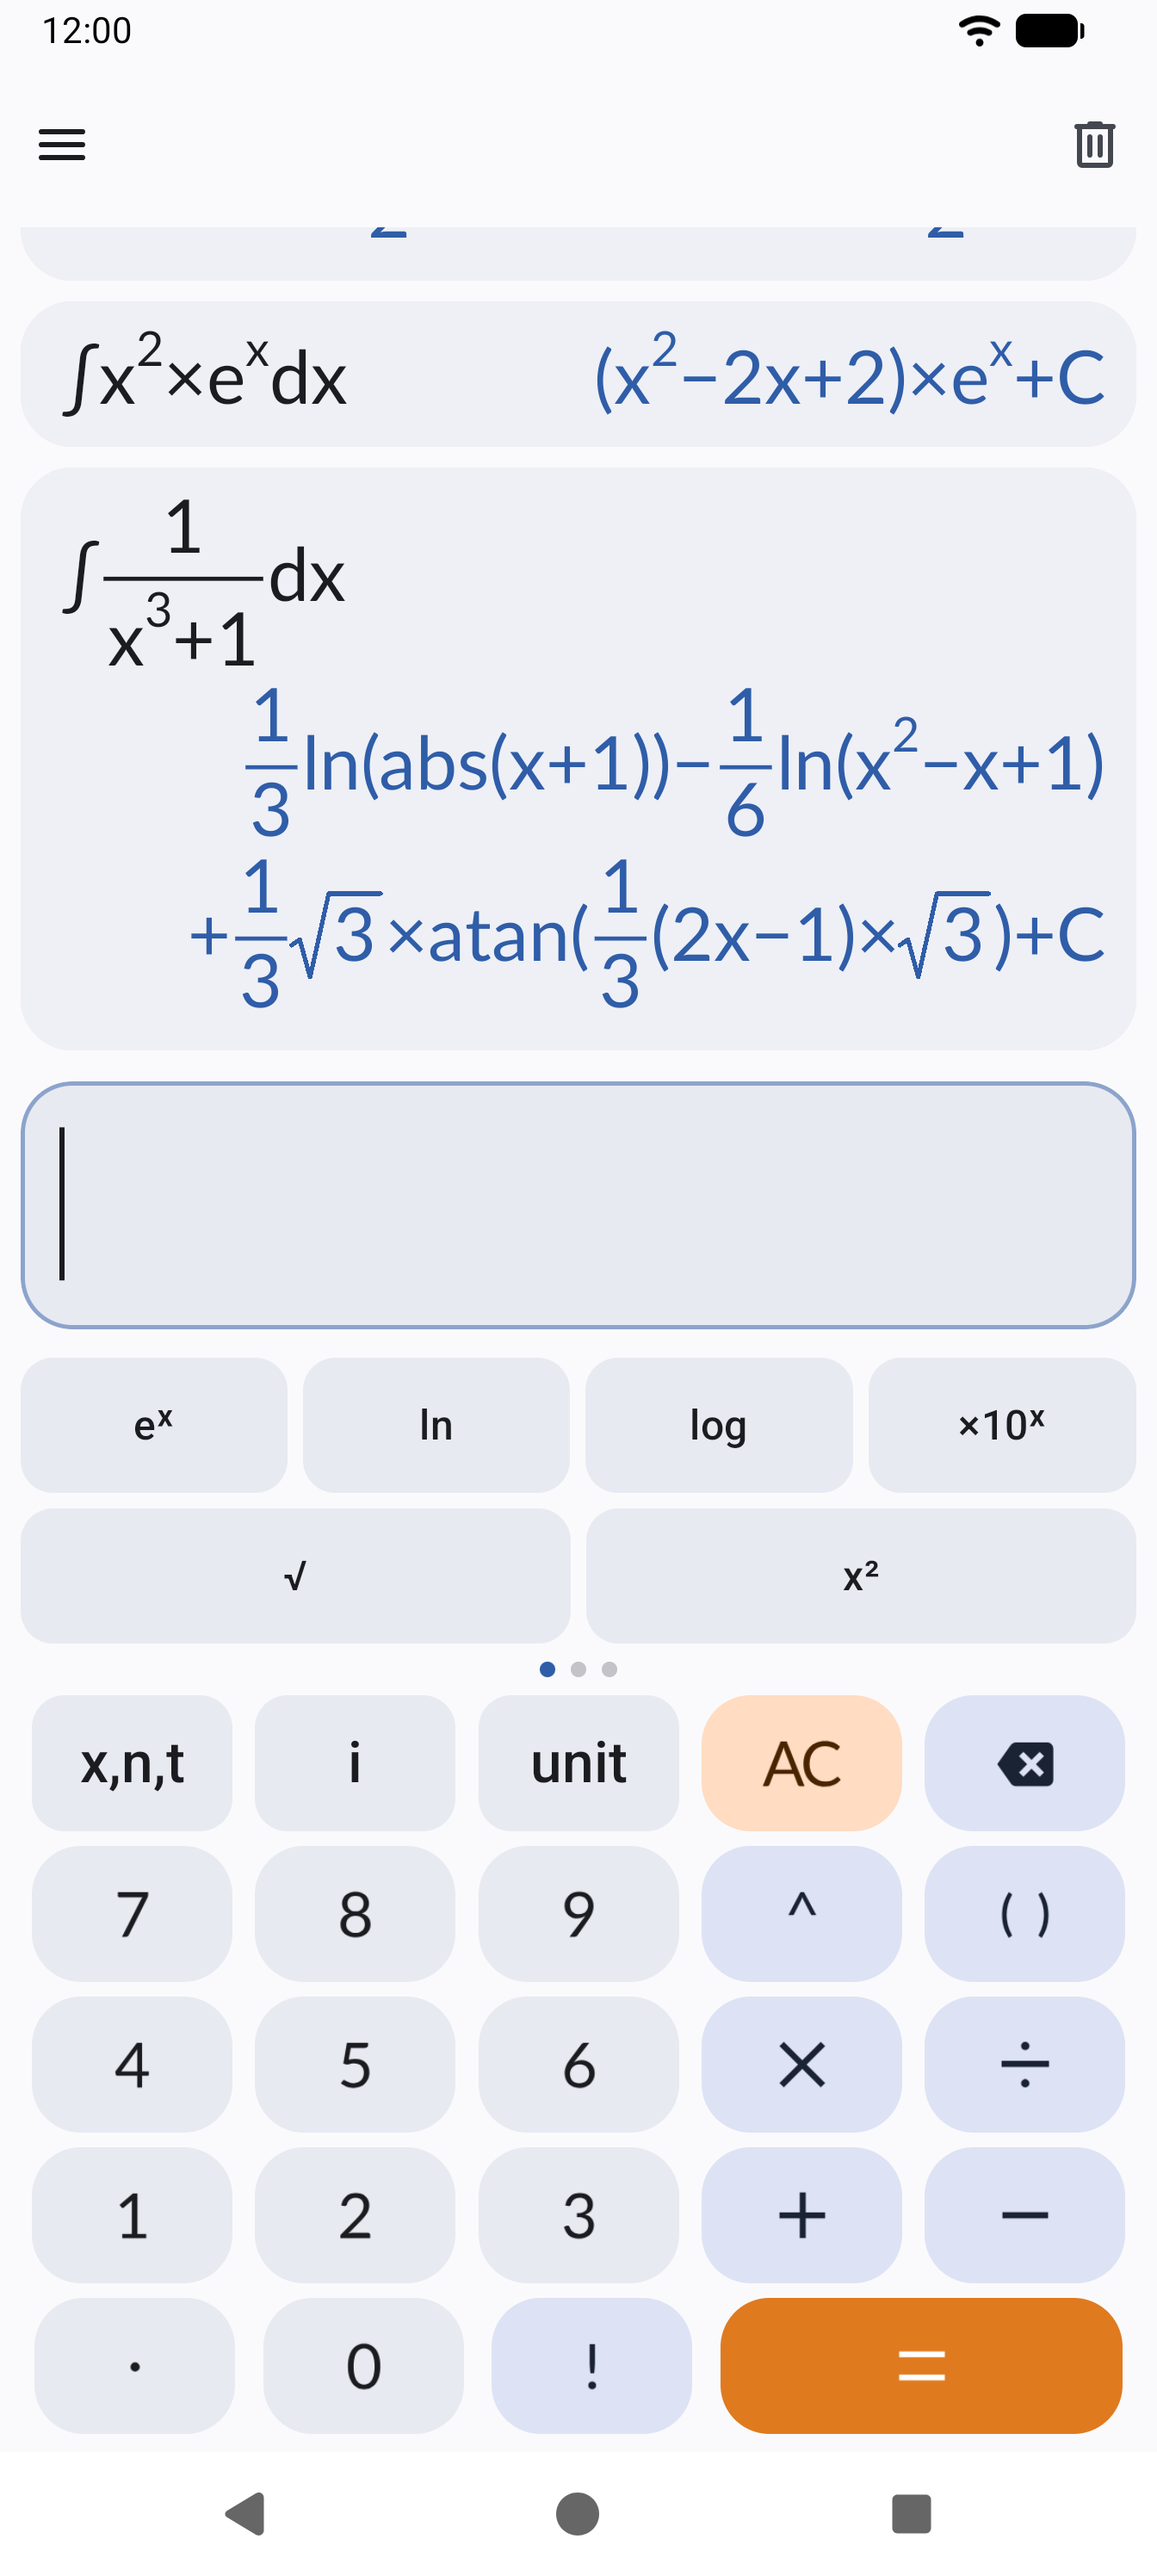
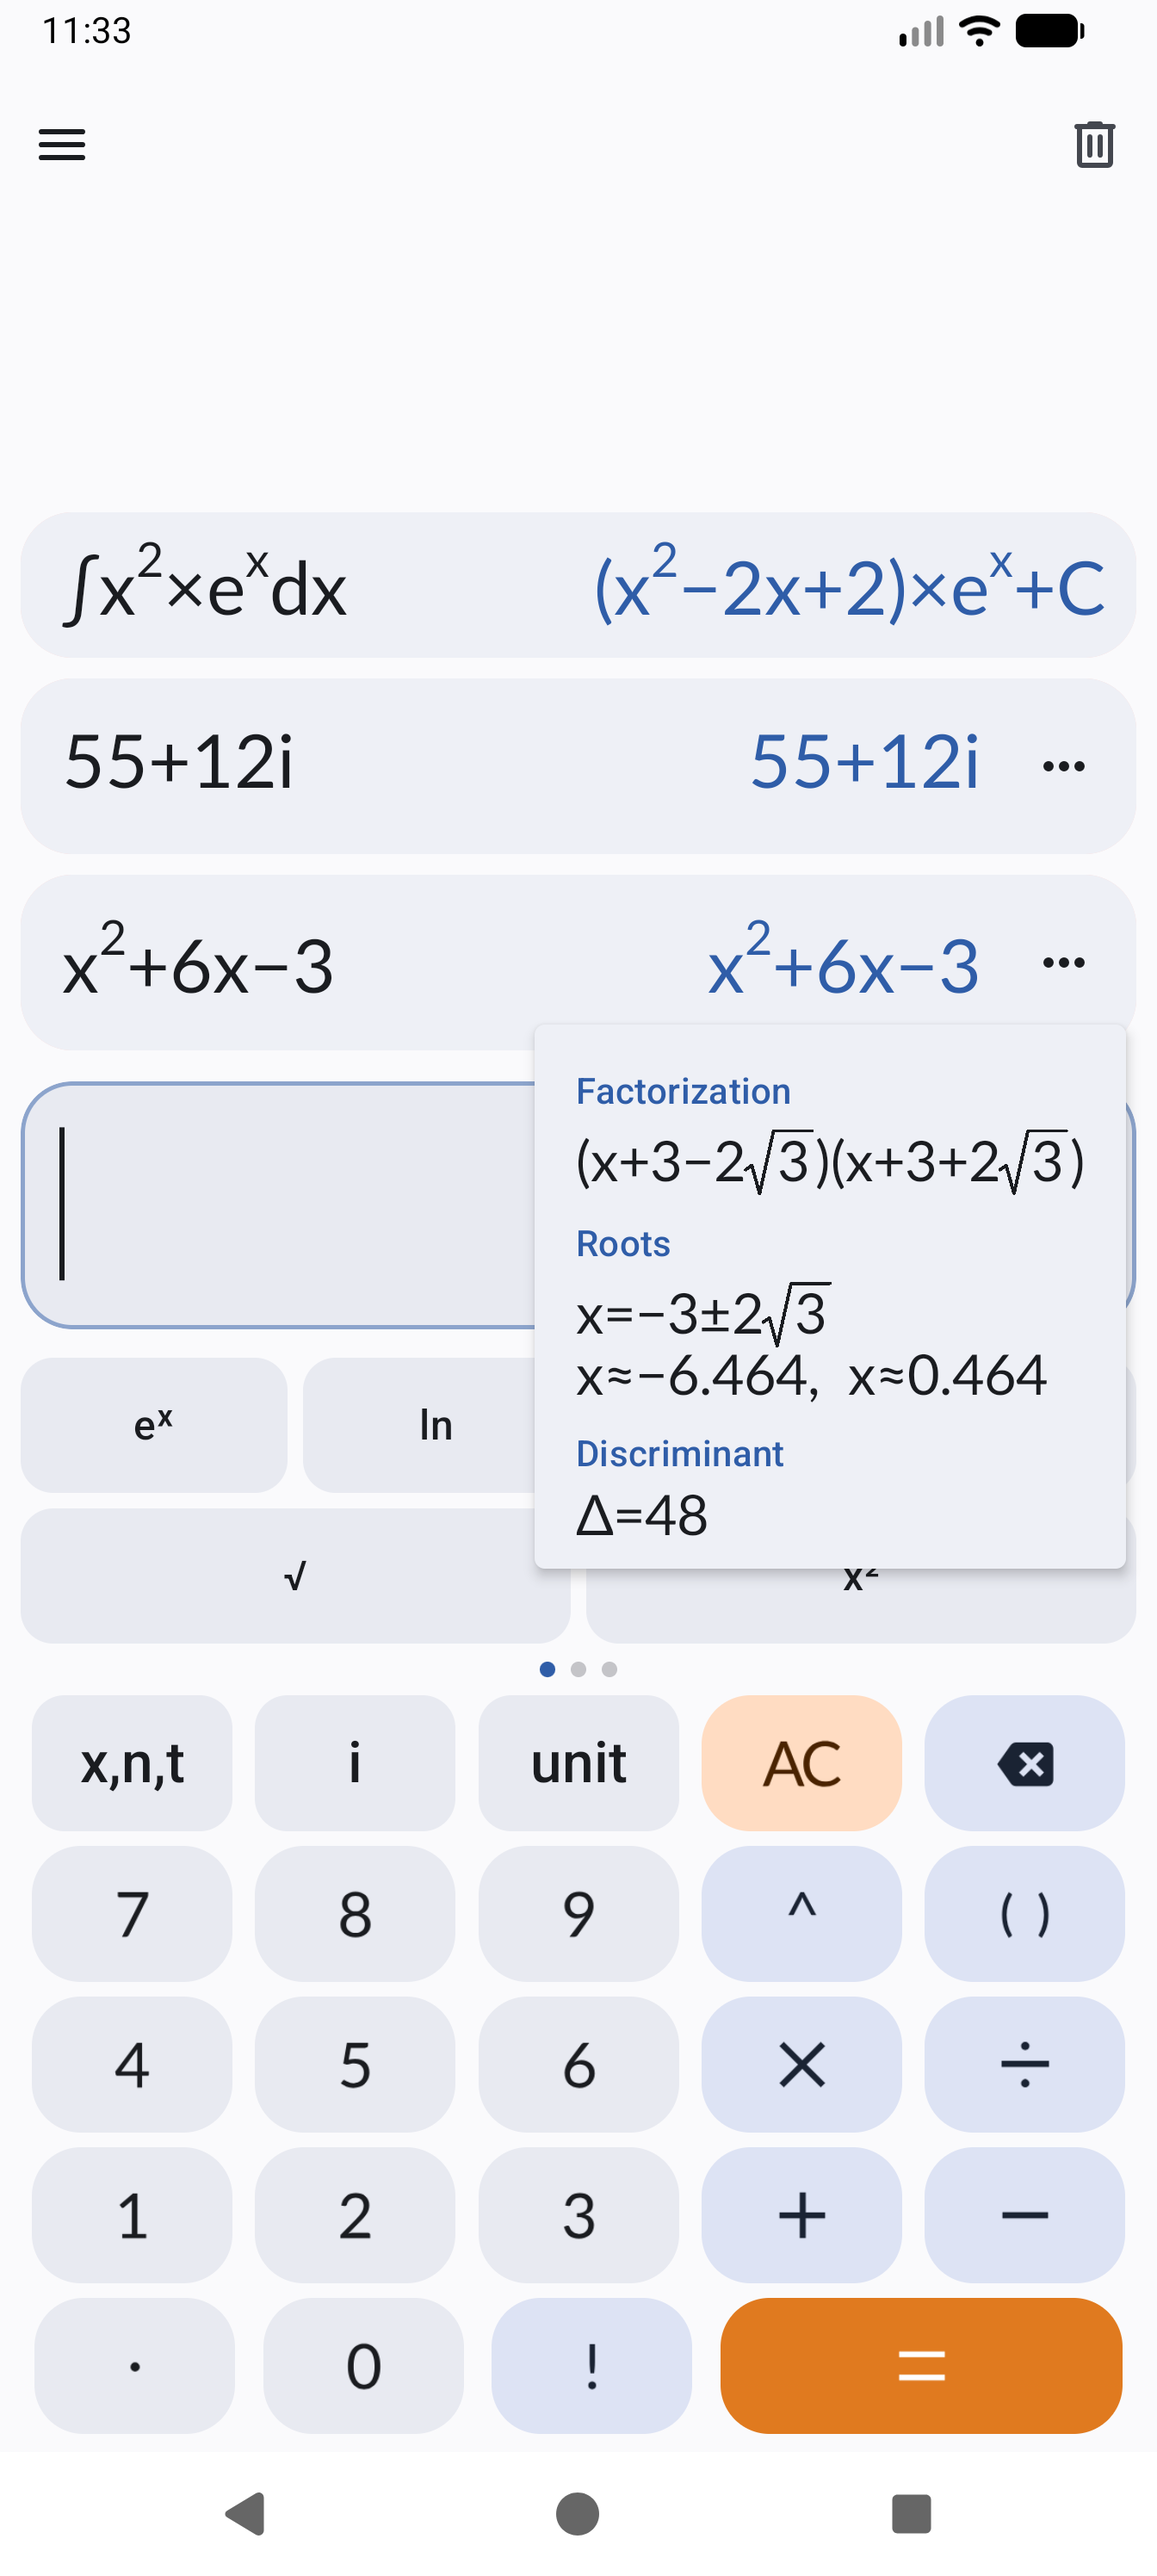
Show polynomial factorization first in the README

diff --git a/README.md b/README.md
@@ -3,7 +3,7 @@
 A calculator for Android. Named after the Pascaline, the mechanical calculator Blaise Pascal built in 1642.
 
 <p align="center">
-  <img src="docs/screenshots/calculator.png" width="24%" alt="Exact antiderivatives of x²eˣ and 1/(x³+1)" />
+  <img src="docs/screenshots/calculator.png" width="24%" alt="Factorization, exact roots and discriminant of x²+6x−3" />
   <img src="docs/screenshots/functions.png" width="24%" alt="Graph of sin(x) and cos(x)" />
   <img src="docs/screenshots/probability.png" width="24%" alt="Binomial distribution with P(X ≤ 2) = 0.3483 and its expected value explained" />
   <img src="docs/screenshots/probability-tree.png" width="24%" alt="Probability tree of 4 free throws with arrows to each number of baskets" />
